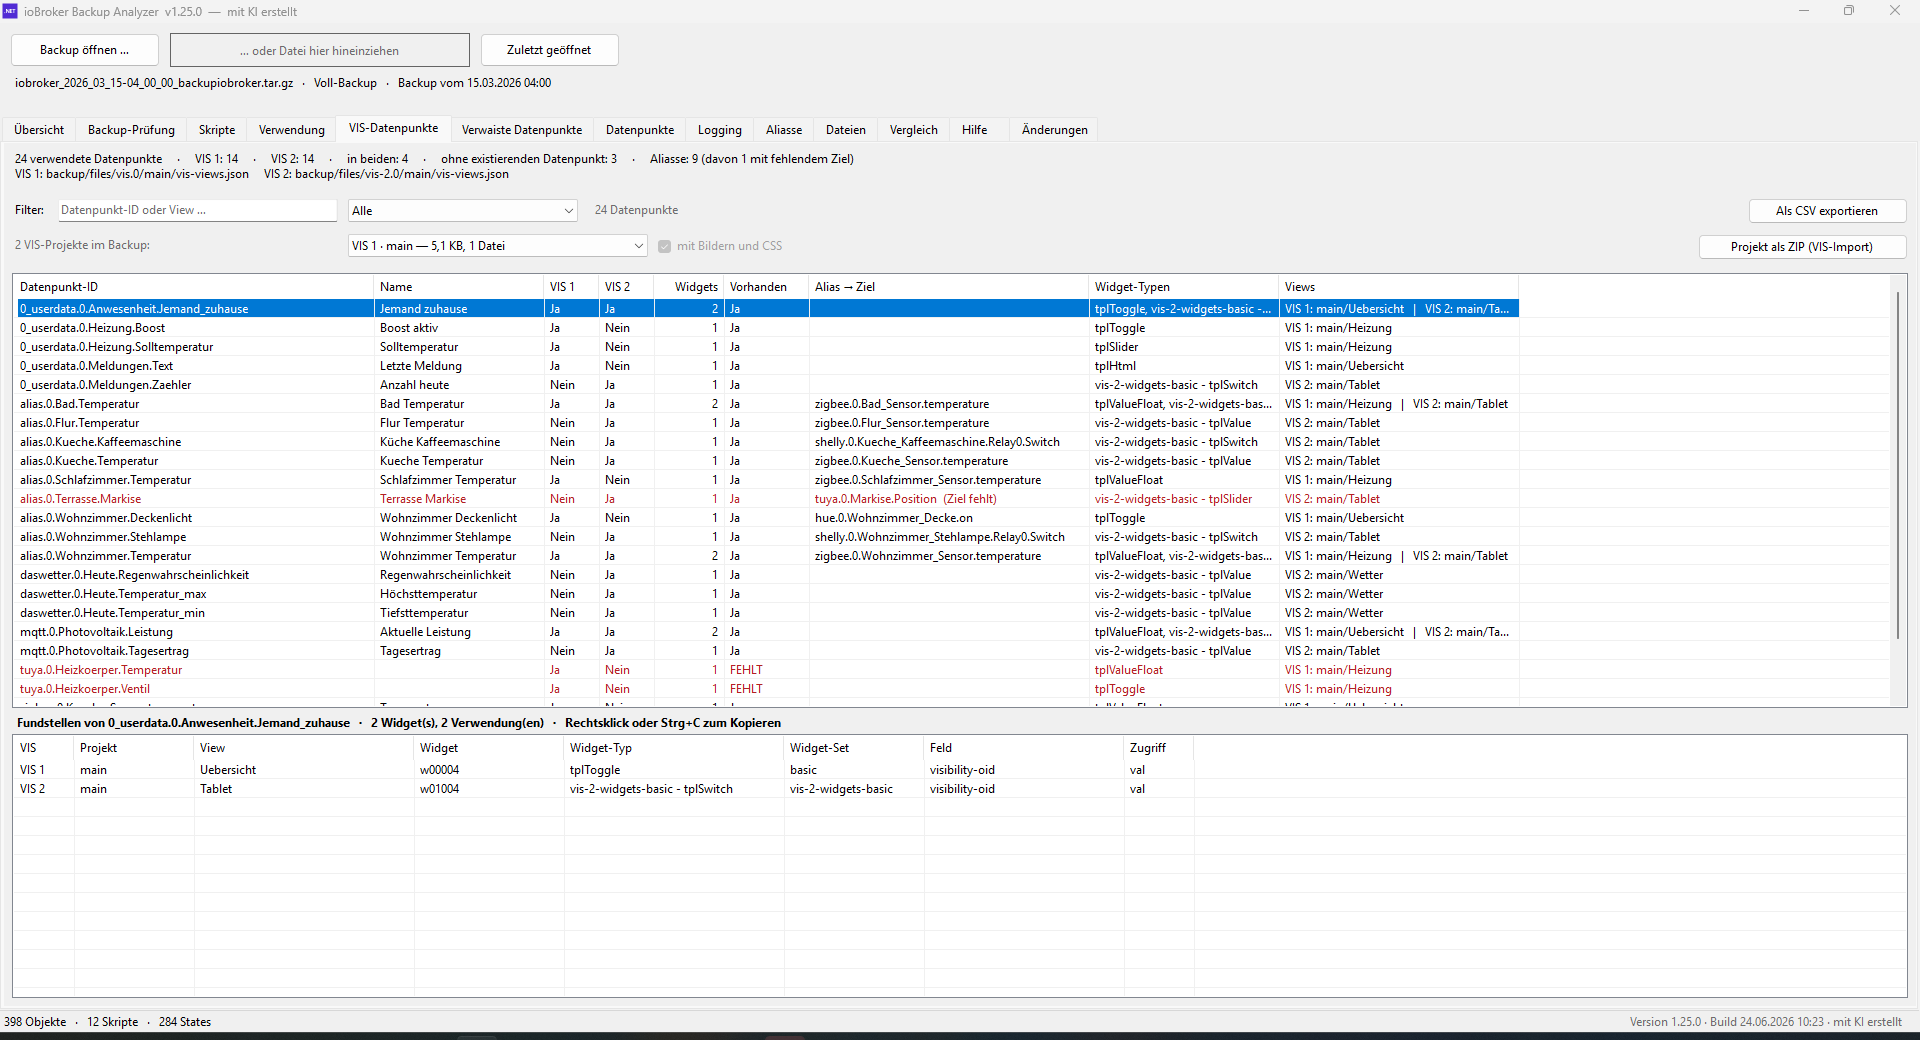
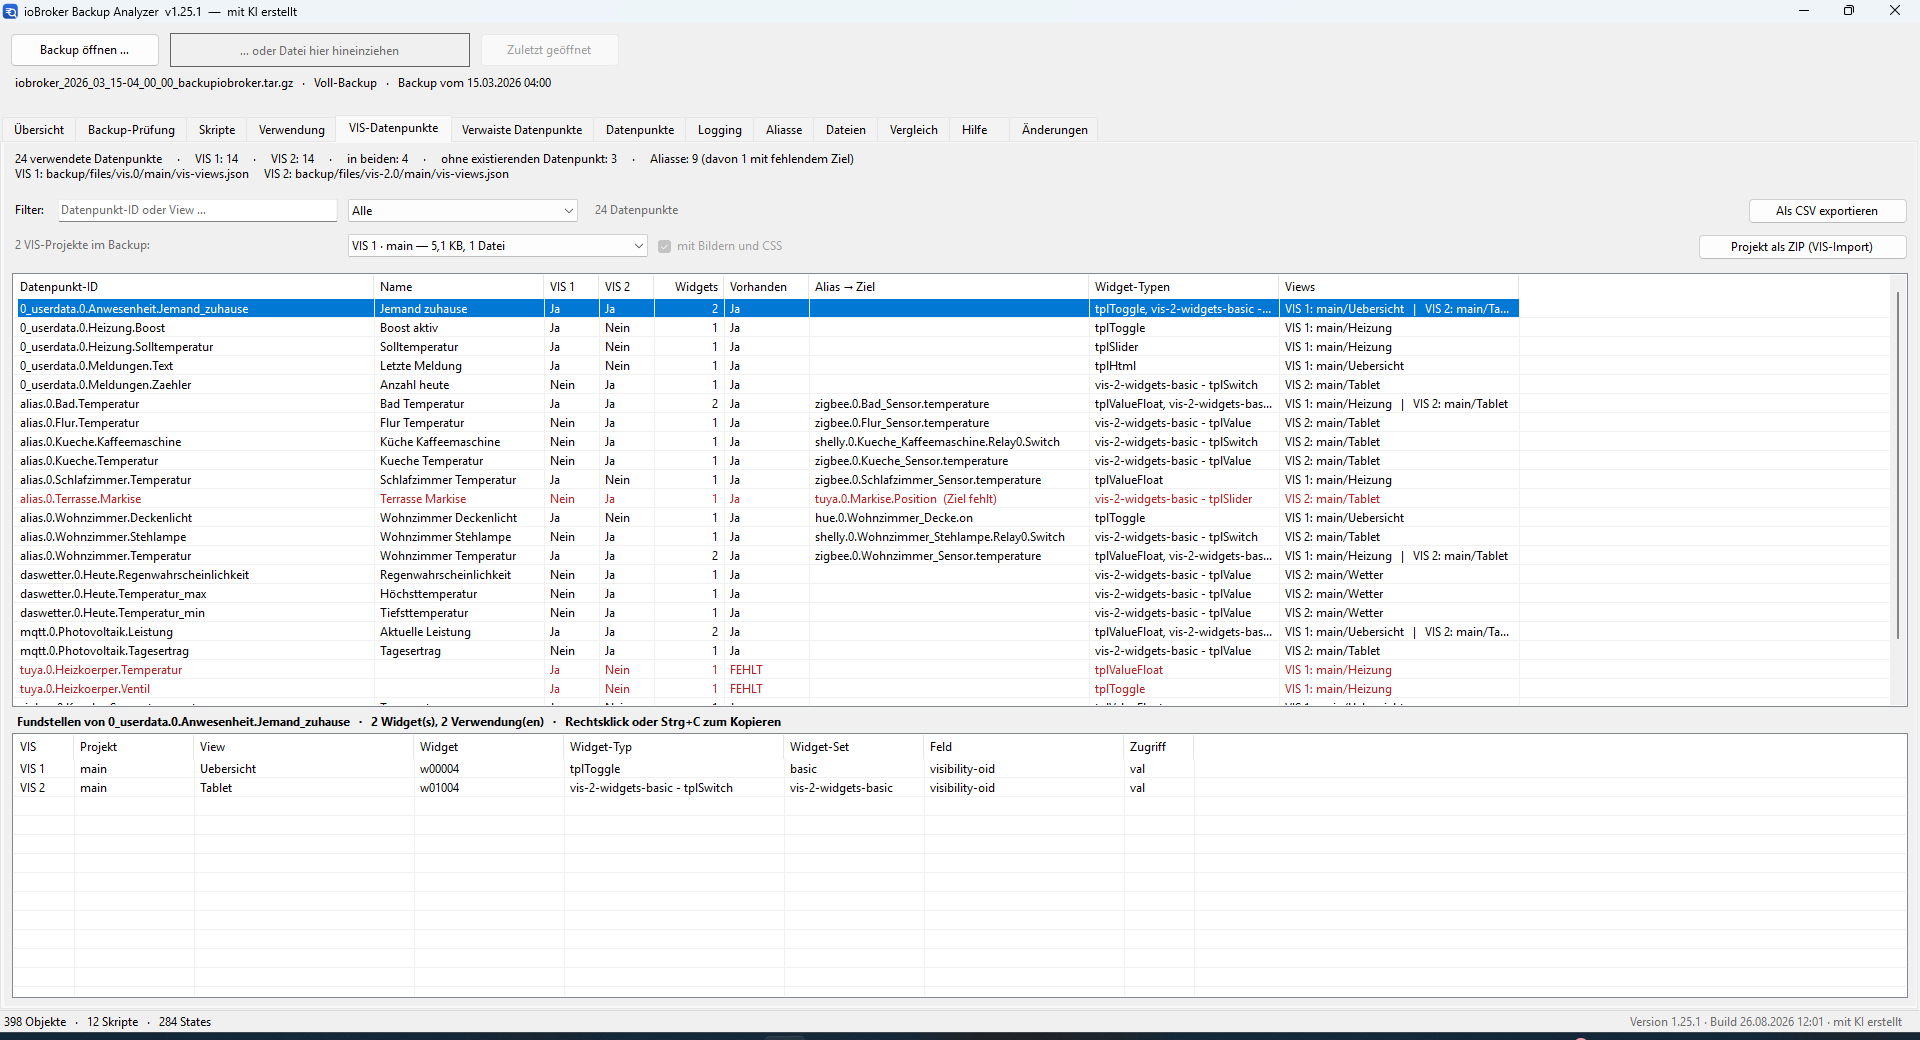
ioBroker Backup Analyzer v1.25.1

diff --git a/src/IobBackupAnalyzer.Verify/Program.cs b/src/IobBackupAnalyzer.Verify/Program.cs
@@ -3340,6 +3340,28 @@ if (gekappterPunkt is not null)
           && DatapointPresenter.ValueInfo(gekappterPunkt).Contains("gekürzt"),
           gekappterPunkt.Id);
 
+// Ein Treffer, der nur ueber den Namen kommt, muss nachvollziehbar bleiben. Manche Adapter
+// legen ganze Saetze als Namen ab; die Tabellenspalte schneidet die dann ab, und die
+// Fundstelle ist nicht mehr zu sehen. Deshalb steht der vollstaendige Name in der
+// Beschreibung. Geprueft an einem echten langen Namen aus dem Testbackup.
+var langerName = punkte.Where(p => p.Name.Length > 40).OrderByDescending(p => p.Name.Length)
+                       .FirstOrDefault();
+Check("Das Testbackup enthaelt einen langen Datenpunktnamen", langerName is not null);
+if (langerName is not null)
+{
+    Console.WriteLine($"  Laengster Name: {langerName.Name.Length} Zeichen");
+    Check("Beschreibung nennt den vollstaendigen Namen",
+          DatapointPresenter.Definition(langerName).Contains(langerName.Name), langerName.Id);
+
+    // Gegenprobe zur Suche selbst: Ein Teilwort aus dem Namen muss den Datenpunkt finden,
+    // auch wenn es in der ID gar nicht vorkommt.
+    var wort = langerName.Name.Split(' ').FirstOrDefault(w => w.Length > 5
+                                                             && !langerName.Id.Contains(w, StringComparison.OrdinalIgnoreCase));
+    if (wort is not null)
+        Check("Suche findet ein Wort, das nur im Namen steht",
+              DatapointPresenter.Filter(punkte, wort).Any(p => p.Id == langerName.Id), wort);
+}
+
 // Die Beschreibung muss die Felder zeigen, die ein Wert zum Einordnen braucht.
 var mitEinheit = punkte.FirstOrDefault(p => p.Unit.Length > 0);
 Check("Das Testbackup liefert Einheiten", mitEinheit is not null);

diff --git a/src/IobBackupAnalyzer.Core/ChangelogContent.cs b/src/IobBackupAnalyzer.Core/ChangelogContent.cs
@@ -23,6 +23,16 @@ public static class ChangelogContent
     /// <summary>Neueste Version zuerst.</summary>
     public static IReadOnlyList<ChangelogEntry> Entries { get; } = new ChangelogEntry[]
     {
+        new("1.25.1", "26.08.2026", new[]
+        {
+            "Im Reiter „Datenpunkte\" steht jetzt der vollständige Name des Datenpunkts in " +
+            "der Beschreibung unter der Liste. Vorher war nicht immer erkennbar, warum eine " +
+            "Zeile in der Trefferliste steht: Manche Adapter legen ganze Sätze als Namen ab " +
+            "— im Testbackup bis zu 583 Zeichen —, und die Namensspalte schneidet sie ab. " +
+            "Eine Suche nach „fore\" traf so auf „…can take up to 24 hours before reported\", " +
+            "ohne dass die Fundstelle zu sehen war."
+        }),
+
         new("1.25.0", "26.08.2026", new[]
         {
             "Neuer Reiter „Datenpunkte\": Suche über Datenpunkt-ID und Name, darunter der " +

diff --git a/src/IobBackupAnalyzer.App/DatapointsTab.cs b/src/IobBackupAnalyzer.App/DatapointsTab.cs
@@ -65,10 +65,14 @@ internal sealed class DatapointsTab : UserControl
 
         // ---------- Unterer Bereich: der eigentliche Zweck des Tabs ----------
 
-        var detail = new Panel { Dock = DockStyle.Bottom, Height = 260, Padding = new Padding(0, 8, 0, 0) };
+        var detail = new Panel { Dock = DockStyle.Bottom, Height = 300, Padding = new Padding(0, 8, 0, 0) };
 
+        // Drei Zeilen hoch und umbrechend: Der Datenpunktname steht hier vollständig, und
+        // manche Adapter legen ganze Sätze als Namen ab (im Testbackup bis 583 Zeichen).
+        // Einzeilig wäre gerade der Teil abgeschnitten, wegen dem die Zeile gefunden wurde.
         _definition.Dock = DockStyle.Top;
-        _definition.Height = 22;
+        _definition.Height = 56;
+        _definition.AutoEllipsis = true;
         _definition.Text = "";
 
         _valueInfo.Dock = DockStyle.Top;

diff --git a/src/IobBackupAnalyzer.Core/DatapointPresenter.cs b/src/IobBackupAnalyzer.Core/DatapointPresenter.cs
@@ -286,6 +286,13 @@ public static class DatapointPresenter
             return sb.ToString();
         }
 
+        // Der Name steht voran, obwohl er auch in der Tabelle steht: Dort ist die Spalte
+        // begrenzt und schneidet ab. Manche Adapter legen ganze Sätze als Namen ab —
+        // „Remaining battery in %, can take up to 24 hours before reported" etwa. Sucht
+        // jemand nach „fore", trifft das genau solche Namen, und in der Tabelle ist die
+        // Fundstelle dann nicht zu sehen. Ohne diese Zeile bliebe unerklärlich, warum eine
+        // Zeile in der Trefferliste steht.
+        Add("Name", h.Name);
         Add("Typ", h.TypeText);
         Add("Einheit", h.Unit);
         Add("Rolle", h.Role);
